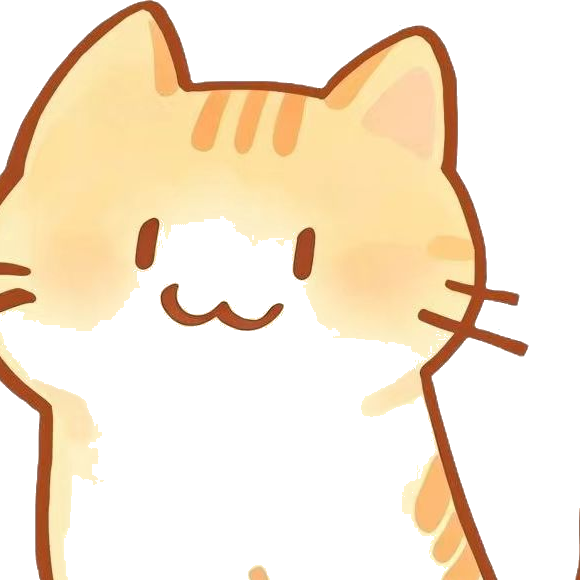
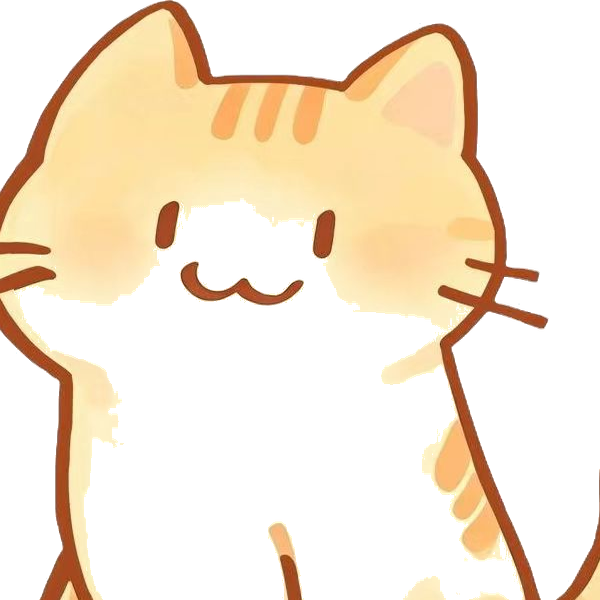
fix: 完整小猫融入 + 浮球透明背景 + expanded 状态重构
修复 Jade 反馈的 5 个问题：

## 1. ChatPanel 右上角显示完整小猫（不是头像）
- variant="head" → variant="full"
- size: 36 → 56

## 2. MainWindow 标题栏猫头含胡子
- head.png 重新裁剪为 600x600 (含完整头部+胡须)
- PIL 处理透明背景

## 3. 浮球背景透明
- float.html body 背景 #ffffff → transparent
- #root overflow: hidden → visible（猫 PNG overflow 时不被裁）

## 4. expanded 状态猫栏去黑色背景
- background: var(--text) → transparent
- 宽度 48 → 60px
- size: 28 → 52px variant="full"
- 加 flexShrink: 0

## 5. 浮球完整尺寸修复
- tauri.conf.json 改 110x120（已在上一轮 commit）
- reminder.rs set_float_mode compact 改 110x120

## 交互稿
新增 dailysnap-cat-states-preview.html，4 个状态可视化：
1. compact（默认，桌面常驻）
2. hover（问候气泡浮现）
3. 持续 hover（输入框）
4. 回应（猫说话）

预览在浏览器打开，让 Jade 确认方向后实施。

Changed region(s): [[0.0, 0.0, 1.0, 1.0], [0.4034, 0.869, 0.5276, 1.0]]

diff --git a/src/components/FloatBall.tsx b/src/components/FloatBall.tsx
@@ -464,13 +464,14 @@ export function FloatBall() {
           onClick={handleCatClick}
           onDoubleClick={openMain}
           style={{
-            width: "48px", minWidth: "48px",
-            background: "var(--text)",
+            width: "60px", minWidth: "60px",
+            background: "transparent",
             display: "flex", alignItems: "center", justifyContent: "center",
             cursor: "pointer", position: "relative",
+            flexShrink: 0,
           }}
         >
-          <Cat mood={followup.active ? "sleepy" : catMood} size={28} />
+          <Cat mood={followup.active ? "sleepy" : catMood} size={52} variant="full" />
         </div>
       </motion.div>
     </AnimatePresence>

diff --git a/float.html b/float.html
@@ -6,11 +6,17 @@
     <title>DailySnap Float</title>
     <style>
       * { margin: 0; padding: 0; box-sizing: border-box; }
-      html, body, #root {
+      html, body {
         width: 100%;
         height: 100%;
         overflow: hidden;
-        background: #ffffff;
+        background: transparent;
+      }
+      #root {
+        width: 100%;
+        height: 100%;
+        overflow: visible;
+        background: transparent;
       }
     </style>
   </head>

diff --git a/src/components/ChatPanel.tsx b/src/components/ChatPanel.tsx
@@ -187,7 +187,7 @@ export function ChatPanel() {
           <div className="label-caps" style={{ color: "var(--text-tertiary)" }}>
             {onboarding ? "初次见面" : "现在"}
           </div>
-          <Cat mood={catMood} size={36} variant="head" hasNotification={false} />
+          <Cat mood={catMood} size={56} variant="full" hasNotification={false} />
         </div>
       </div>
 
